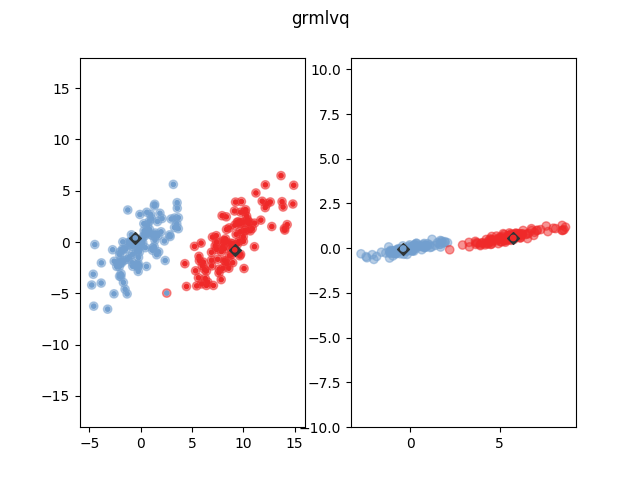
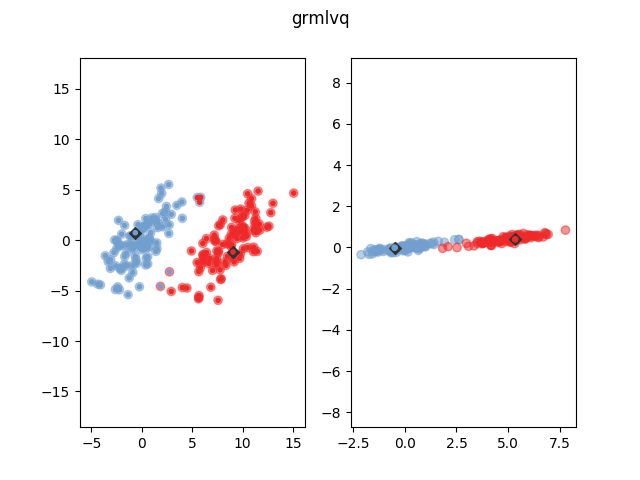
Pushing the docs for revision for branch: master, commit 67bffebbce09c59da5668c1d4954c385667b924e

diff --git a/auto_examples/plot_benchmark.html b/auto_examples/plot_benchmark.html
@@ -180,8 +180,8 @@ and classification from each implementation. Because Glvq can’t project the da
 a PCA is used.</p>
 <img alt="../_images/sphx_glr_plot_benchmark_001.png" class="align-center" src="../_images/sphx_glr_plot_benchmark_001.png" />
 <p class="sphx-glr-script-out">Out:</p>
-<div class="sphx-glr-script-out highlight-default notranslate"><div class="highlight"><pre><span></span><span class="p">(</span><span class="s1">&#39;variance coverd by projection:&#39;</span><span class="p">,</span> <span class="mf">96.27169207687545</span><span class="p">)</span>
-<span class="p">(</span><span class="s1">&#39;variance coverd by projection:&#39;</span><span class="p">,</span> <span class="mf">98.33858765920853</span><span class="p">)</span>
+<div class="sphx-glr-script-out highlight-default notranslate"><div class="highlight"><pre><span></span><span class="p">(</span><span class="s1">&#39;variance coverd by projection:&#39;</span><span class="p">,</span> <span class="mf">97.81895256094337</span><span class="p">)</span>
+<span class="p">(</span><span class="s1">&#39;variance coverd by projection:&#39;</span><span class="p">,</span> <span class="mf">99.08855491886189</span><span class="p">)</span>
 </pre></div>
 </div>
 <div class="line-block">
@@ -276,7 +276,7 @@ a PCA is used.</p>
 <span class="n">plt</span><span class="o">.</span><span class="n">show</span><span class="p">()</span>
 </pre></div>
 </div>
-<p><strong>Total running time of the script:</strong> ( 0 minutes  23.284 seconds)</p>
+<p><strong>Total running time of the script:</strong> ( 0 minutes  24.778 seconds)</p>
 <div class="sphx-glr-footer docutils container">
 <div class="sphx-glr-download docutils container">
 <a class="reference download internal" href="../_downloads/plot_benchmark.py" download=""><code class="xref download docutils literal notranslate"><span class="pre">Download</span> <span class="pre">Python</span> <span class="pre">source</span> <span class="pre">code:</span> <span class="pre">plot_benchmark.py</span></code></a></div>

diff --git a/auto_examples/plot_grmlvq.html b/auto_examples/plot_grmlvq.html
@@ -182,9 +182,9 @@ The projected data is shown in the right plot.</p>
 <img alt="../_images/sphx_glr_plot_grmlvq_001.png" class="align-center" src="../_images/sphx_glr_plot_grmlvq_001.png" />
 <p class="sphx-glr-script-out">Out:</p>
 <div class="sphx-glr-script-out highlight-default notranslate"><div class="highlight"><pre><span></span><span class="n">GRMLVQ</span><span class="p">:</span>
-<span class="p">[</span><span class="mf">0.71354711</span> <span class="mf">0.28645289</span><span class="p">]</span>
+<span class="p">[</span><span class="mf">0.70258552</span> <span class="mf">0.29741448</span><span class="p">]</span>
 <span class="p">(</span><span class="s1">&#39;variance coverd by projection:&#39;</span><span class="p">,</span> <span class="mf">100.0</span><span class="p">)</span>
-<span class="p">(</span><span class="s1">&#39;classification accuracy:&#39;</span><span class="p">,</span> <span class="mf">0.995</span><span class="p">)</span>
+<span class="p">(</span><span class="s1">&#39;classification accuracy:&#39;</span><span class="p">,</span> <span class="mf">0.975</span><span class="p">)</span>
 </pre></div>
 </div>
 <div class="line-block">
@@ -216,7 +216,7 @@ The projected data is shown in the right plot.</p>
 <span class="n">plt</span><span class="o">.</span><span class="n">show</span><span class="p">()</span>
 </pre></div>
 </div>
-<p><strong>Total running time of the script:</strong> ( 0 minutes  0.118 seconds)</p>
+<p><strong>Total running time of the script:</strong> ( 0 minutes  0.142 seconds)</p>
 <div class="sphx-glr-footer docutils container">
 <div class="sphx-glr-download docutils container">
 <a class="reference download internal" href="../_downloads/plot_grmlvq.py" download=""><code class="xref download docutils literal notranslate"><span class="pre">Download</span> <span class="pre">Python</span> <span class="pre">source</span> <span class="pre">code:</span> <span class="pre">plot_grmlvq.py</span></code></a></div>

diff --git a/auto_examples/plot_lgmlvq.html b/auto_examples/plot_lgmlvq.html
@@ -184,7 +184,7 @@ The projected data is shown in the right plot.</p>
 <div class="sphx-glr-script-out highlight-default notranslate"><div class="highlight"><pre><span></span><span class="n">LGMLVQ</span><span class="p">:</span>
 <span class="p">(</span><span class="s1">&#39;variance coverd by projection:&#39;</span><span class="p">,</span> <span class="mf">100.0</span><span class="p">)</span>
 <span class="p">(</span><span class="s1">&#39;variance coverd by projection:&#39;</span><span class="p">,</span> <span class="mf">100.0</span><span class="p">)</span>
-<span class="p">(</span><span class="s1">&#39;classification accuracy:&#39;</span><span class="p">,</span> <span class="mf">0.81</span><span class="p">)</span>
+<span class="p">(</span><span class="s1">&#39;classification accuracy:&#39;</span><span class="p">,</span> <span class="mf">0.76</span><span class="p">)</span>
 </pre></div>
 </div>
 <div class="line-block">
@@ -214,7 +214,7 @@ The projected data is shown in the right plot.</p>
 <span class="n">plt</span><span class="o">.</span><span class="n">show</span><span class="p">()</span>
 </pre></div>
 </div>
-<p><strong>Total running time of the script:</strong> ( 0 minutes  0.274 seconds)</p>
+<p><strong>Total running time of the script:</strong> ( 0 minutes  0.252 seconds)</p>
 <div class="sphx-glr-footer docutils container">
 <div class="sphx-glr-download docutils container">
 <a class="reference download internal" href="../_downloads/plot_lgmlvq.py" download=""><code class="xref download docutils literal notranslate"><span class="pre">Download</span> <span class="pre">Python</span> <span class="pre">source</span> <span class="pre">code:</span> <span class="pre">plot_lgmlvq.py</span></code></a></div>

diff --git a/auto_examples/plot_lmrslvq.html b/auto_examples/plot_lmrslvq.html
@@ -185,7 +185,7 @@ right plot.</p>
 <div class="sphx-glr-script-out highlight-default notranslate"><div class="highlight"><pre><span></span><span class="n">LMRSLVQ</span><span class="p">:</span>
 <span class="p">(</span><span class="s1">&#39;variance coverd by projection:&#39;</span><span class="p">,</span> <span class="mf">100.0</span><span class="p">)</span>
 <span class="p">(</span><span class="s1">&#39;variance coverd by projection:&#39;</span><span class="p">,</span> <span class="mf">100.0</span><span class="p">)</span>
-<span class="p">(</span><span class="s1">&#39;classification accuracy:&#39;</span><span class="p">,</span> <span class="mf">0.715</span><span class="p">)</span>
+<span class="p">(</span><span class="s1">&#39;classification accuracy:&#39;</span><span class="p">,</span> <span class="mf">0.76</span><span class="p">)</span>
 </pre></div>
 </div>
 <div class="line-block">
@@ -215,7 +215,7 @@ right plot.</p>
 <span class="n">plt</span><span class="o">.</span><span class="n">show</span><span class="p">()</span>
 </pre></div>
 </div>
-<p><strong>Total running time of the script:</strong> ( 0 minutes  3.597 seconds)</p>
+<p><strong>Total running time of the script:</strong> ( 0 minutes  4.004 seconds)</p>
 <div class="sphx-glr-footer docutils container">
 <div class="sphx-glr-download docutils container">
 <a class="reference download internal" href="../_downloads/plot_lmrslvq.py" download=""><code class="xref download docutils literal notranslate"><span class="pre">Download</span> <span class="pre">Python</span> <span class="pre">source</span> <span class="pre">code:</span> <span class="pre">plot_lmrslvq.py</span></code></a></div>

diff --git a/auto_examples/plot_mrslvq.html b/auto_examples/plot_mrslvq.html
@@ -183,7 +183,7 @@ right plot.</p>
 <img alt="../_images/sphx_glr_plot_mrslvq_001.png" class="align-center" src="../_images/sphx_glr_plot_mrslvq_001.png" />
 <p class="sphx-glr-script-out">Out:</p>
 <div class="sphx-glr-script-out highlight-default notranslate"><div class="highlight"><pre><span></span><span class="n">MRSLVQ</span><span class="p">:</span>
-<span class="p">(</span><span class="s1">&#39;classification accuracy:&#39;</span><span class="p">,</span> <span class="mf">1.0</span><span class="p">)</span>
+<span class="p">(</span><span class="s1">&#39;classification accuracy:&#39;</span><span class="p">,</span> <span class="mf">0.995</span><span class="p">)</span>
 <span class="p">(</span><span class="s1">&#39;variance coverd by projection:&#39;</span><span class="p">,</span> <span class="mf">100.0</span><span class="p">)</span>
 </pre></div>
 </div>
@@ -215,7 +215,7 @@ right plot.</p>
 <span class="n">plt</span><span class="o">.</span><span class="n">show</span><span class="p">()</span>
 </pre></div>
 </div>
-<p><strong>Total running time of the script:</strong> ( 0 minutes  1.691 seconds)</p>
+<p><strong>Total running time of the script:</strong> ( 0 minutes  2.114 seconds)</p>
 <div class="sphx-glr-footer docutils container">
 <div class="sphx-glr-download docutils container">
 <a class="reference download internal" href="../_downloads/plot_mrslvq.py" download=""><code class="xref download docutils literal notranslate"><span class="pre">Download</span> <span class="pre">Python</span> <span class="pre">source</span> <span class="pre">code:</span> <span class="pre">plot_mrslvq.py</span></code></a></div>

diff --git a/auto_examples/plot_glvq.html b/auto_examples/plot_glvq.html
@@ -218,7 +218,7 @@ shows the prototypes (black diamond) and their labels (small point inside the di
 <span class="n">plt</span><span class="o">.</span><span class="n">show</span><span class="p">()</span>
 </pre></div>
 </div>
-<p><strong>Total running time of the script:</strong> ( 0 minutes  0.044 seconds)</p>
+<p><strong>Total running time of the script:</strong> ( 0 minutes  0.048 seconds)</p>
 <div class="sphx-glr-footer docutils container">
 <div class="sphx-glr-download docutils container">
 <a class="reference download internal" href="../_downloads/plot_glvq.py" download=""><code class="xref download docutils literal notranslate"><span class="pre">Download</span> <span class="pre">Python</span> <span class="pre">source</span> <span class="pre">code:</span> <span class="pre">plot_glvq.py</span></code></a></div>

diff --git a/auto_examples/plot_gmlvq.html b/auto_examples/plot_gmlvq.html
@@ -213,7 +213,7 @@ The projected data is shown in the right plot.</p>
 <span class="n">plt</span><span class="o">.</span><span class="n">show</span><span class="p">()</span>
 </pre></div>
 </div>
-<p><strong>Total running time of the script:</strong> ( 0 minutes  0.311 seconds)</p>
+<p><strong>Total running time of the script:</strong> ( 0 minutes  0.317 seconds)</p>
 <div class="sphx-glr-footer docutils container">
 <div class="sphx-glr-download docutils container">
 <a class="reference download internal" href="../_downloads/plot_gmlvq.py" download=""><code class="xref download docutils literal notranslate"><span class="pre">Download</span> <span class="pre">Python</span> <span class="pre">source</span> <span class="pre">code:</span> <span class="pre">plot_gmlvq.py</span></code></a></div>

diff --git a/auto_examples/plot_grlvq.html b/auto_examples/plot_grlvq.html
@@ -214,7 +214,7 @@ The projected data is shown in the right plot.</p>
 <span class="n">plt</span><span class="o">.</span><span class="n">show</span><span class="p">()</span>
 </pre></div>
 </div>
-<p><strong>Total running time of the script:</strong> ( 0 minutes  3.597 seconds)</p>
+<p><strong>Total running time of the script:</strong> ( 0 minutes  6.433 seconds)</p>
 <div class="sphx-glr-footer docutils container">
 <div class="sphx-glr-download docutils container">
 <a class="reference download internal" href="../_downloads/plot_grlvq.py" download=""><code class="xref download docutils literal notranslate"><span class="pre">Download</span> <span class="pre">Python</span> <span class="pre">source</span> <span class="pre">code:</span> <span class="pre">plot_grlvq.py</span></code></a></div>

diff --git a/auto_examples/plot_rslvq.html b/auto_examples/plot_rslvq.html
@@ -221,7 +221,7 @@ right plot.</p>
 <span class="n">plt</span><span class="o">.</span><span class="n">show</span><span class="p">()</span>
 </pre></div>
 </div>
-<p><strong>Total running time of the script:</strong> ( 0 minutes  0.550 seconds)</p>
+<p><strong>Total running time of the script:</strong> ( 0 minutes  0.587 seconds)</p>
 <div class="sphx-glr-footer docutils container">
 <div class="sphx-glr-download docutils container">
 <a class="reference download internal" href="../_downloads/plot_rslvq.py" download=""><code class="xref download docutils literal notranslate"><span class="pre">Download</span> <span class="pre">Python</span> <span class="pre">source</span> <span class="pre">code:</span> <span class="pre">plot_rslvq.py</span></code></a></div>
